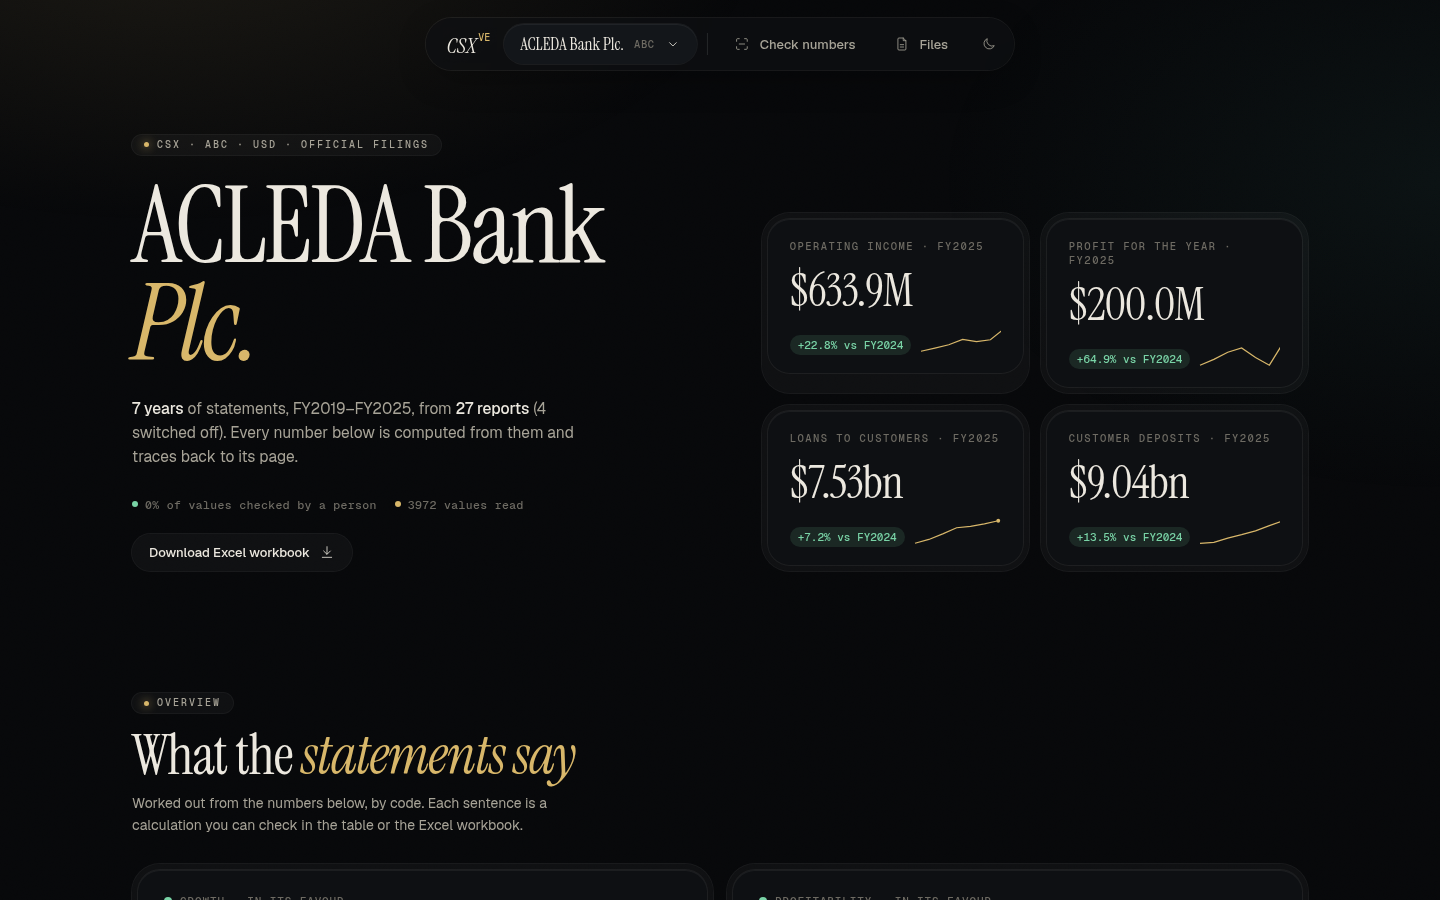
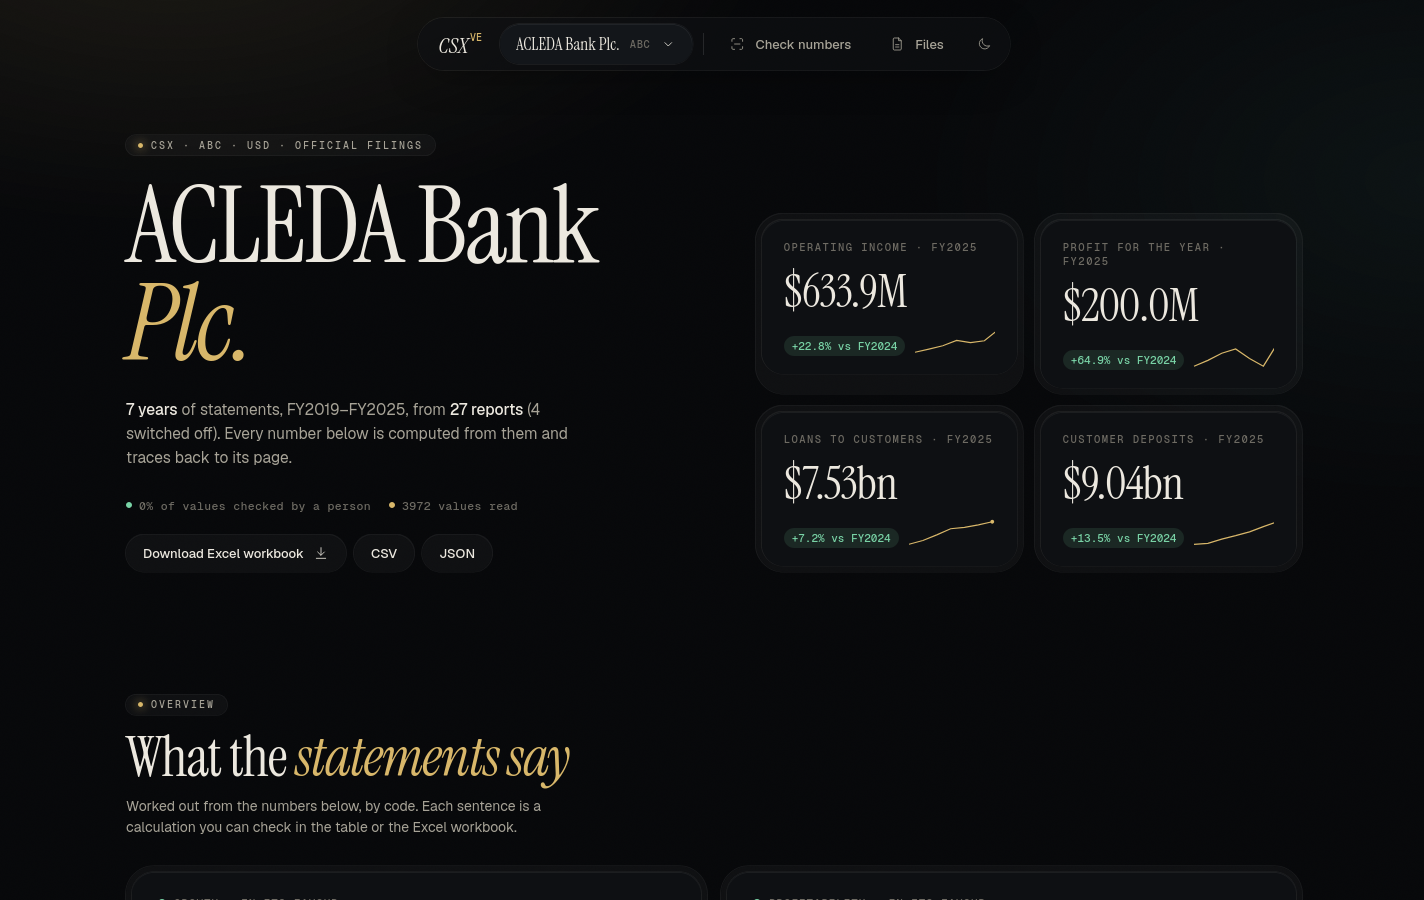
Add company search and CSV/JSON downloads
- The company list now scrolls inside the screen and has a search box
  (name or code, Enter picks the first match). Before, a long list ran
  off the bottom of the window with no way to reach the rest.
- The company page offers CSV and JSON downloads next to the Excel
  workbook. They hold the standardised statements that were previously
  only available from the terminal or the API.
- README, tutorial and the report screenshot updated to match.

diff --git a/src/review/static/review.html b/src/review/static/review.html
@@ -82,6 +82,12 @@ svg.i{width:16px;height:16px;stroke:currentColor;fill:none;stroke-width:1.25;str
 .menu{position:absolute;top:calc(100% + 10px);left:0;min-width:300px;padding:6px;border-radius:22px;background:var(--glass);backdrop-filter:blur(24px);-webkit-backdrop-filter:blur(24px);
   box-shadow:0 0 0 1px var(--shell-line),0 24px 60px -20px rgba(0,0,0,.6);opacity:0;transform:translateY(-6px) scale(.98);pointer-events:none;transition:opacity .35s var(--ease),transform .45s var(--ease)}
 .menu.open{opacity:1;transform:none;pointer-events:auto}
+.menu{display:flex;flex-direction:column;max-height:min(70vh,560px);width:min(380px,calc(100vw - 32px));background:var(--core)}
+.menu-q{margin:4px 4px 6px;padding:10px 14px;border:0;border-radius:14px;background:var(--shell);color:var(--ink);font:400 14px var(--sans);outline:none;box-shadow:0 0 0 1px var(--hair2)}
+.menu-q:focus{box-shadow:0 0 0 1px var(--gold)}
+.menu-list{overflow-y:auto;overscroll-behavior:contain;min-height:0}
+.dl{display:flex;gap:8px;flex-wrap:wrap}
+.menu-count{padding:6px 14px 4px;font:500 10.5px var(--mono);color:var(--mute);letter-spacing:.06em}
 .menu button{width:100%;display:flex;justify-content:space-between;align-items:center;gap:14px;padding:11px 14px;border:0;border-radius:16px;background:none;cursor:pointer;text-align:left;transition:background .3s var(--ease)}
 .menu button:hover,.menu button[aria-current=true]{background:var(--shell)}
 .menu b{font:400 18px var(--serif)}
@@ -515,13 +521,26 @@ function reveal(root){let i=0;root.querySelectorAll(".rv").forEach(el=>{el.style
 function issuers(){const m=new Map();S.filings.forEach(f=>{if(!m.has(f.issuer_id))m.set(f.issuer_id,{id:f.issuer_id,name:f.name,origin:new Set()});m.get(f.issuer_id).origin.add(f.origin);});return[...m.values()];}
 async function loadFilings(){S.filings=await api("/api/filings");renderMenu();renderLibrary();}
 function renderMenu(){
-  const list=issuers();
-  $("#companyMenu").innerHTML=list.map(c=>`<button role="option" data-i="${esc(c.id)}" aria-current="${c.id===S.issuer}"><span><b>${esc(c.name)}</b><br><small>${esc(c.id)}</small></span>${c.origin.has("official")?'<span class="tag official">official</span>':'<span class="tag upload">upload</span>'}</button>`).join("")||'<p class="note" style="padding:14px;margin:0">No companies yet. Open Files to add a report.</p>';
-  $("#companyMenu").querySelectorAll("button").forEach(b=>b.onclick=()=>{closeMenu();openCompany(b.dataset.i);});
+  const list=issuers().slice().sort((a,b)=>a.name.localeCompare(b.name));
+  const m=$("#companyMenu");
+  if(!list.length){m.innerHTML='<p class="note" style="padding:14px;margin:0">No companies yet. Open Files to add a report.</p>';$("#codes").innerHTML="";return;}
+  const prev=$("#menuQ"),keep=prev?prev.value:"",focused=document.activeElement===prev;
+  m.innerHTML=`<input class="menu-q" id="menuQ" type="search" placeholder="Search ${list.length} companies by name or code" aria-label="Search companies"><div class="menu-list" id="menuList"></div><div class="menu-count" id="menuCount"></div>`;
+  const draw=()=>{const q=$("#menuQ").value.trim().toLowerCase();
+    const shown=list.filter(c=>!q||c.name.toLowerCase().includes(q)||c.id.toLowerCase().includes(q));
+    $("#menuList").innerHTML=shown.map(c=>`<button role="option" data-i="${esc(c.id)}" aria-current="${c.id===S.issuer}"><span><b>${esc(c.name)}</b><br><small>${esc(c.id)}</small></span>${c.origin.has("official")?'<span class="tag official">official</span>':'<span class="tag upload">upload</span>'}</button>`).join("")||'<p class="note" style="padding:14px;margin:0">No company matches.</p>';
+    $("#menuCount").textContent=q?`${shown.length} of ${list.length}`:`${list.length} companies`;
+    $("#menuList").querySelectorAll("button").forEach(b=>b.onclick=()=>{closeMenu();openCompany(b.dataset.i);});};
+  $("#menuQ").addEventListener("input",draw);
+  $("#menuQ").addEventListener("keydown",e=>{if(e.key==="Enter"){const b=$("#menuList button");if(b)b.click();}else if(e.key==="Escape")closeMenu();});
+  m.onclick=e=>e.stopPropagation();
+  $("#menuQ").value=keep;if(focused)$("#menuQ").focus();
+  draw();
   $("#codes").innerHTML=list.map(c=>`<option value="${esc(c.id)}">${esc(c.name)}</option>`).join("");
 }
 function closeMenu(){$("#companyMenu").classList.remove("open");$("#companyBtn").setAttribute("aria-expanded","false");}
-$("#companyBtn").onclick=e=>{e.stopPropagation();const m=$("#companyMenu");m.classList.toggle("open");$("#companyBtn").setAttribute("aria-expanded",m.classList.contains("open"));};
+$("#companyBtn").onclick=e=>{e.stopPropagation();const m=$("#companyMenu");m.classList.toggle("open");const open=m.classList.contains("open");$("#companyBtn").setAttribute("aria-expanded",open);
+  if(open){const q=$("#menuQ");if(q){q.value="";q.dispatchEvent(new Event("input"));setTimeout(()=>q.focus(),30);}m.querySelector('[aria-current="true"]')?.scrollIntoView({block:"nearest"});}};
 document.addEventListener("click",e=>{if(!e.target.closest(".picker"))closeMenu();});
 async function openCompany(id){
   if(!id){emptyState();return;}
@@ -634,7 +653,7 @@ function renderReport(){
         <h1>${titleHtml(R.name)}</h1>
         <p class="lede">${ys.length?`<b>${ys.length} year${ys.length>1?"s":""}</b> of statements, FY${ys[0]}–FY${latest}, from <b>${used.length} report${used.length===1?"":"s"}</b>${off?` (${off} switched off)`:""}. Every number below is computed from them and traces back to its page.`:"No complete year yet. Add an annual report, or switch one on, in Files."}</p>
         <div class="trust"><span><i style="background:var(--up)"></i>${reviewed}% of values checked by a person</span><span><i style="background:var(--gold)"></i>${R.review.total} values read</span>${R.uses_uploads?'<span><i style="background:var(--warn)"></i>includes your uploads</span>':""}</div>
-        ${ys.length?`<div style="margin-top:22px"><a class="ghost" href="/api/export/${encodeURIComponent(R.issuer)}.xlsx" download>Download Excel workbook <svg class="i"><use href="#i-down"/></svg></a></div>`:""}
+        ${ys.length?`<div class="dl" style="margin-top:22px"><a class="ghost" href="/api/export/${encodeURIComponent(R.issuer)}.xlsx" download>Download Excel workbook <svg class="i"><use href="#i-down"/></svg></a><a class="ghost" href="/api/export/${encodeURIComponent(R.issuer)}.csv" download title="Every statement value in one table, the same columns for every company">CSV</a><a class="ghost" href="/api/export/${encodeURIComponent(R.issuer)}.json" download title="The same data as CSV, for programs">JSON</a></div>`:""}
       </div>
       <div class="tiles">${tiles}</div>
     </section>

diff --git a/tests/test_review.py b/tests/test_review.py
@@ -124,6 +124,38 @@ class ServerGuards(unittest.TestCase):
                               headers={"Content-Type": "application/json"})
         self.assertEqual(status, 404)
 
+    def test_downloads_in_three_formats(self):
+        from datetime import date
+        from src.core import paths, store
+        from src.core.schema import Filing, Issuer
+        from tests.test_schema import SHA, make_fact
+        conn = store.connect(paths.db_path())
+        store.init_db(conn)
+        store.add_issuer(conn, Issuer(id="DLX", name="Download Plc", reporting_currency="USD"))
+        store.add_filing(conn, Filing(id="DLX-AR", issuer_id="DLX", kind="annual", source_url="https://example.org/a.pdf",
+                                      pdf_sha256=SHA, published_on=date(2026, 3, 31)))
+        store.add_fact(conn, make_fact(issuer_id="DLX", filing_id="DLX-AR", line_item="total_assets",
+                                       value_as_reported="1000", scale=1))
+        conn.commit()
+        conn.close()
+        for fmt, kind in (("csv", "text/csv"), ("json", "application/json"),
+                          ("xlsx", "application/vnd.openxmlformats")):
+            with urllib.request.urlopen(f"http://127.0.0.1:{self.port}/api/export/DLX.{fmt}") as r:
+                body = r.read()
+                self.assertEqual(r.status, 200)
+                self.assertTrue(r.headers["Content-Type"].startswith(kind), fmt)
+                self.assertIn(f".{fmt}", r.headers["Content-Disposition"])
+            if fmt == "csv":
+                self.assertIn(b"total_assets", body)
+        status, _ = self.call("/api/export/NOPE.csv")
+        self.assertEqual(status, 404)
+        conn = store.connect(paths.db_path())   # leave the shared test database empty for the other tests
+        for sql in ("DELETE FROM facts WHERE issuer_id='DLX'", "DELETE FROM filings WHERE issuer_id='DLX'",
+                    "DELETE FROM issuers WHERE id='DLX'"):
+            conn.execute(sql)
+        conn.commit()
+        conn.close()
+
 
 if __name__ == "__main__":
     unittest.main()

diff --git a/src/review/server.py b/src/review/server.py
@@ -405,12 +405,26 @@ class Handler(BaseHTTPRequestHandler):
                 raise KeyError(path)
             return self._send(HTTPStatus.OK, f.read_bytes(), "font/woff2")
         conn = _conn()
-        m = re.fullmatch(r"/api/export/([A-Za-z0-9_.-]+)\.xlsx", path)
+        m = re.fullmatch(r"/api/export/([A-Za-z0-9_.-]+)\.(xlsx|csv|json)", path)
         if m:
-            body = workbook_bytes(conn, m.group(1))
+            issuer, fmt = m.group(1), m.group(2)
+            if conn.execute("SELECT 1 FROM issuers WHERE id=?", (issuer,)).fetchone() is None:
+                raise KeyError(issuer)
+            if fmt == "xlsx":
+                body = workbook_bytes(conn, issuer)
+                ctype = "application/vnd.openxmlformats-officedocument.spreadsheetml.sheet"
+            else:   # the standardised statements; on this computer they include your own uploads
+                from src.export import standard
+                if fmt == "csv":
+                    body = standard.to_csv(conn, issuer, official_only=False).encode("utf-8-sig")  # BOM: Excel reads UTF-8
+                    ctype = "text/csv; charset=utf-8"
+                else:
+                    body = json.dumps(standard.to_json(conn, issuer, official_only=False), ensure_ascii=False,
+                                      indent=1).encode("utf-8")
+                    ctype = "application/json; charset=utf-8"
             self.send_response(HTTPStatus.OK)
-            self.send_header("Content-Type", "application/vnd.openxmlformats-officedocument.spreadsheetml.sheet")
-            self.send_header("Content-Disposition", f'attachment; filename="{m.group(1)}-{date.today().isoformat()}.xlsx"')
+            self.send_header("Content-Type", ctype)
+            self.send_header("Content-Disposition", f'attachment; filename="{issuer}-{date.today().isoformat()}.{fmt}"')
             self.send_header("Content-Length", str(len(body)))
             self.send_header("Cache-Control", "no-store")
             self.end_headers()

diff --git a/docs/TUTORIAL.md b/docs/TUTORIAL.md
@@ -15,7 +15,8 @@ To stop the app, close the black terminal window (or press Ctrl+C in it).
 
 ## 2. Pick a company
 
-Click the company name at the top and choose one from the list.
+Click the company name at the top. A list opens with a search box: type part of a name or code (for
+example `bank` or `ABC`) and press Enter, or scroll and click.
 
 ![The top of a company page](images/1-report.png)
 
@@ -24,6 +25,8 @@ companies these are revenue, profit, free cash flow and net debt. For a bank the
 profit, loans and deposits, because banks report differently.
 
 **Download Excel workbook** gives you every number, the ratios as live formulas, prices and sources.
+**CSV** and **JSON** give the same statements as one plain table, with the same columns for every
+company: handy for your own spreadsheet analysis or a program.
 
 ## 3. Read the overview
 

diff --git a/README.md b/README.md
@@ -14,7 +14,8 @@ numbers, then explains what those numbers say and what each company may be worth
   come in as cash, how much does it owe, and does it earn more than investors require.
 - **Values the company** with a method that fits its industry. You get a range, every step of the maths,
   and where each input comes from.
-- **Lets you take the data away** as an Excel workbook, a CSV or JSON file, or a small API.
+- **Lets you take the data away** with one click as an Excel workbook, a CSV or a JSON file, or through a
+  small API.
 - **Reads your own reports too**, for companies that aren't listed ([how](#add-your-own-reports)). Your
   files stay on your computer.
 
